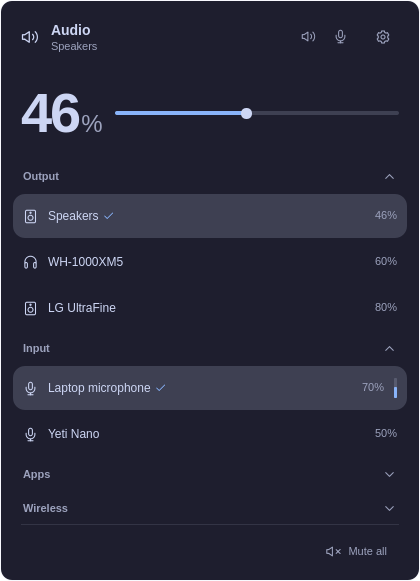
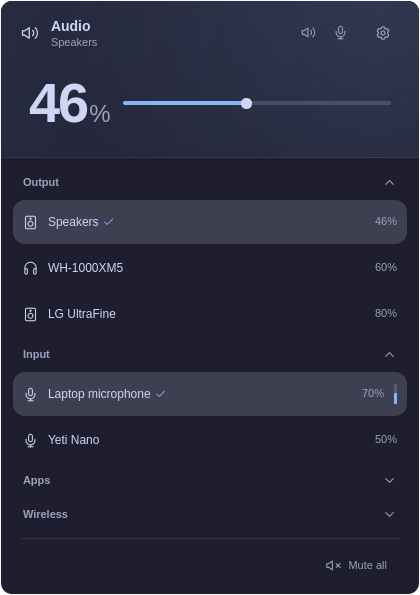
feat(audio): adopt the foamy hero band
The title row (icon, title, output device, mute buttons, settings) and the
volume hero (font.numeral, % on the baseline, slider with its cursor stop)
sit in FoamyHeroBand: the tinted, full-bleed header band. The settings
page gets the compact band from FoamySettingsPage.

diff --git a/AudioView.qml b/AudioView.qml
@@ -30,7 +30,7 @@ PanelKeyCatcher {
 
   implicitWidth: FoamyStyle.popupWidth
   implicitHeight: editing ? settingsPage.implicitHeight
-    : header.implicitHeight + hero.implicitHeight + listColumn.implicitHeight + footer.height
+    : band.implicitHeight + FoamyStyle.gap + listColumn.implicitHeight + footer.height
   blocked: editing
 
   function resetView() {
@@ -162,8 +162,8 @@ PanelKeyCatcher {
   }
 
   // ---- Main view ---------------------------------------------------------
-  FoamyHeader {
-    id: header
+  FoamyHeroBand {
+    id: band
     visible: !view.editing
     width: parent.width
     iconName: view.audio.outputMuted ? "volume-x" : "volume-2"
@@ -172,88 +172,87 @@ PanelKeyCatcher {
     settingsHasCursor: view.hasCursor("settings")
     onSettingsClicked: view.audio.openSettings()
     onSettingsHovered: function(hovered) { if (hovered) view.hover("settings") }
-    FoamyAction {
-      iconName: view.audio.outputMuted ? "volume-x" : "volume-2"
-      foreground: FoamyPalette.secondaryText
-      enabled: view.audio.hasOutput
-      hasCursor: view.hasCursor("outputMute")
-      tooltipText: FoamyI18n.t(view.audio.outputMuted ? "Unmute output" : "Mute output")
-      onHoveredChanged: if (hovered) view.hover("outputMute")
-      onClicked: view.audio.toggleOutputMute()
-    }
-    FoamyAction {
-      iconName: view.audio.inputMuted ? "mic-off" : "mic"
-      foreground: view.audio.inputMuted ? Commons.Color.urgent : FoamyPalette.secondaryText
-      enabled: view.audio.hasInput
-      hasCursor: view.hasCursor("inputMute")
-      tooltipText: FoamyI18n.t(view.audio.inputMuted ? "Unmute microphone" : "Mute microphone")
-      onHoveredChanged: if (hovered) view.hover("inputMute")
-      onClicked: view.audio.toggleInputMute()
-    }
-  }
-
-  FoamyCursorSurface {
-    id: hero
-    visible: !view.editing
-    anchors.top: header.bottom
-    x: FoamyStyle.gapLarge
-    width: parent.width - FoamyStyle.gapLarge * 2
-    implicitHeight: heroRow.implicitHeight + FoamyStyle.gap * 2
-    hasCursor: view.hasCursor("volume")
-    onHovered: view.hover("volume")
-    Accessible.role: Accessible.Slider
-    Accessible.name: FoamyI18n.t("Volume")
-    RowLayout {
-      id: heroRow
-      anchors.fill: parent
-      anchors.leftMargin: FoamyStyle.gap
-      anchors.rightMargin: FoamyStyle.gap
-      spacing: FoamyStyle.gapLarge
-      Item {
-        Layout.alignment: Qt.AlignVCenter
-        implicitWidth: heroNumber.implicitWidth + (heroUnit.visible ? FoamyStyle.gapTiny + heroUnit.implicitWidth : 0)
-        implicitHeight: heroNumber.implicitHeight
-        opacity: view.audio.outputMuted ? 0.5 : 1
-        Text {
-          id: heroNumber
-          anchors.left: parent.left
-          text: view.audio.hasOutput ? FoamyI18n.number(Math.round(outputSlider.value * 100)) : "—"
-          textFormat: Text.PlainText
-          color: FoamyPalette.text
-          font.family: FoamyStyle.fontFamily
-          font.pixelSize: FoamyStyle.font.numeral
-          font.weight: Font.DemiBold
-          font.letterSpacing: -2
-        }
-        Text {
-          id: heroUnit
-          visible: view.audio.hasOutput
-          anchors.left: heroNumber.right
-          anchors.leftMargin: FoamyStyle.gapTiny
-          anchors.baseline: heroNumber.baseline
-          text: "%"
-          textFormat: Text.PlainText
-          color: FoamyPalette.secondaryText
-          font.family: FoamyStyle.fontFamily
-          font.pixelSize: FoamyStyle.font.display
-        }
-      }
-      AudioSlider {
-        id: outputSlider
-        Layout.fillWidth: true
-        Layout.alignment: Qt.AlignVCenter
-        label: FoamyI18n.t("Volume")
+    trailing: [
+      FoamyAction {
+        iconName: view.audio.outputMuted ? "volume-x" : "volume-2"
+        foreground: FoamyPalette.secondaryText
         enabled: view.audio.hasOutput
-        value: view.audio.hasOutput ? view.audio.outputVolume : 0
-        onMoved: view.audio.setOutputVolume(value)
+        hasCursor: view.hasCursor("outputMute")
+        tooltipText: FoamyI18n.t(view.audio.outputMuted ? "Unmute output" : "Mute output")
+        onHoveredChanged: if (hovered) view.hover("outputMute")
+        onClicked: view.audio.toggleOutputMute()
+      },
+      FoamyAction {
+        iconName: view.audio.inputMuted ? "mic-off" : "mic"
+        foreground: view.audio.inputMuted ? Commons.Color.urgent : FoamyPalette.secondaryText
+        enabled: view.audio.hasInput
+        hasCursor: view.hasCursor("inputMute")
+        tooltipText: FoamyI18n.t(view.audio.inputMuted ? "Unmute microphone" : "Mute microphone")
+        onHoveredChanged: if (hovered) view.hover("inputMute")
+        onClicked: view.audio.toggleInputMute()
       }
-    }
+    ]
+      // Hero slot: the output volume (numeral) and its slider, one cursor stop.
+      FoamyCursorSurface {
+        id: hero
+        Layout.fillWidth: true
+        implicitHeight: heroRow.implicitHeight + FoamyStyle.gap * 2
+        hasCursor: view.hasCursor("volume")
+        onHovered: view.hover("volume")
+        Accessible.role: Accessible.Slider
+        Accessible.name: FoamyI18n.t("Volume")
+        RowLayout {
+          id: heroRow
+          anchors.fill: parent
+          anchors.leftMargin: FoamyStyle.gap
+          anchors.rightMargin: FoamyStyle.gap
+          spacing: FoamyStyle.gapLarge
+          Item {
+            Layout.alignment: Qt.AlignVCenter
+            implicitWidth: heroNumber.implicitWidth + (heroUnit.visible ? FoamyStyle.gapTiny + heroUnit.implicitWidth : 0)
+            implicitHeight: heroNumber.implicitHeight
+            opacity: view.audio.outputMuted ? 0.5 : 1
+            Text {
+              id: heroNumber
+              anchors.left: parent.left
+              text: view.audio.hasOutput ? FoamyI18n.number(Math.round(outputSlider.value * 100)) : "—"
+              textFormat: Text.PlainText
+              color: FoamyPalette.text
+              font.family: FoamyStyle.fontFamily
+              font.pixelSize: FoamyStyle.font.numeral
+              font.weight: Font.DemiBold
+              font.letterSpacing: -2
+            }
+            Text {
+              id: heroUnit
+              visible: view.audio.hasOutput
+              anchors.left: heroNumber.right
+              anchors.leftMargin: FoamyStyle.gapTiny
+              anchors.baseline: heroNumber.baseline
+              text: "%"
+              textFormat: Text.PlainText
+              color: FoamyPalette.secondaryText
+              font.family: FoamyStyle.fontFamily
+              font.pixelSize: FoamyStyle.font.display
+            }
+          }
+          AudioSlider {
+            id: outputSlider
+            Layout.fillWidth: true
+            Layout.alignment: Qt.AlignVCenter
+            label: FoamyI18n.t("Volume")
+            enabled: view.audio.hasOutput
+            value: view.audio.hasOutput ? view.audio.outputVolume : 0
+            onMoved: view.audio.setOutputVolume(value)
+          }
+        }
+      }
   }
 
   Flickable {
     id: scroll
     visible: !view.editing
-    anchors.top: hero.bottom
+    anchors.top: band.bottom
     anchors.topMargin: FoamyStyle.gap
     anchors.bottom: footer.top
     width: parent.width
